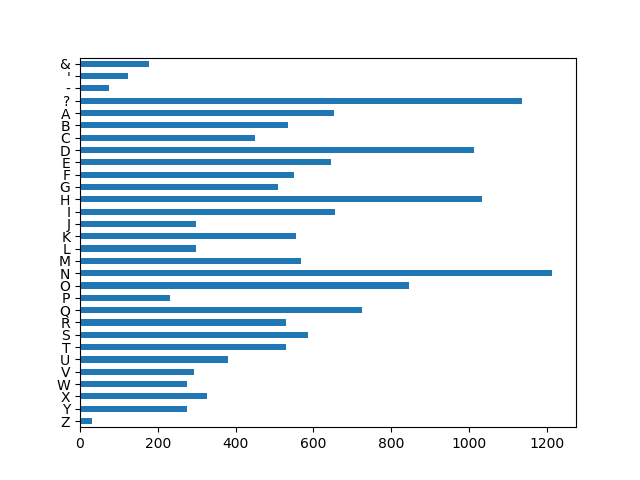
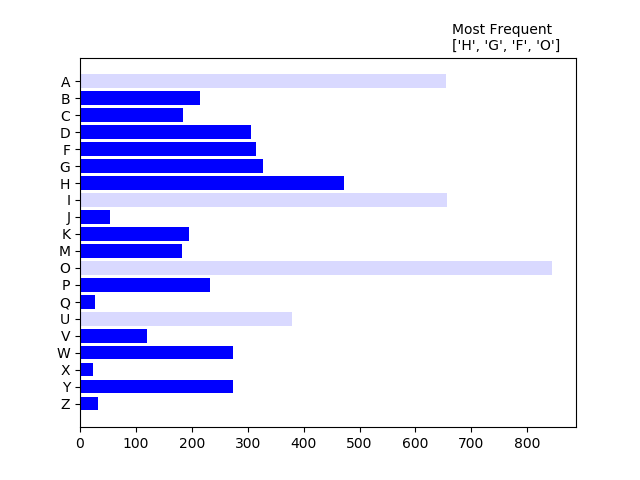
highlighted vowels and added text showing most frequently occuring letters on each graph

diff --git a/analysis.py b/analysis.py
@@ -1,10 +1,10 @@
-# TODO fade or eliminate given letters (RSTLNE) in graphs
-# TODO highlight most likely letters in graphs
-# TODO color vowels differently in graphs
-# TODO analyze best three consonant/one vowel combo to guess
-#   not just most occuring three consonants/one vowel
 # TODO analyze based on category, note weird categories in README
 # TODO compare actual guessed letters with best letters
+# TODO write about best 3 consonants/1 vowel to guess in README
+# TODO make graphs prettier
+# TODO write functions to print categories and letters
+# TODO organize code
+# TODO comment
 
 
 import pandas
@@ -35,23 +35,86 @@ def puzzle_letter_occurence():
   series = pandas.Series(count_list, index=alphabet)
   return series
 
-def print_barh_graph(series,savename="image.png"):
-  series.plot.barh()
+def print_barh_graph(keys,values,savename="image.png",most_frequent_l=[]):
+  plt.clf()
+  light_blue = [0,0,1,0.15]
+  bar_colors = ['blue']*20
+  bar_colors[0] = light_blue
+  bar_colors[7] = light_blue
+  bar_colors[11] = light_blue
+  bar_colors[14] = light_blue
+
+  plt.barh(keys,values,color=bar_colors)
+
+  if len(most_frequent_l)>0: 
+    plt.text(0.75, 1.02, 'Most Frequent\n' + str(most_frequent_l), transform=plt.gca().transAxes)
+
   plt.gca().invert_yaxis()
-  plt.savefig('data/'+savename)
+  plt.savefig('graphs/'+savename)
+  
+def print_overall_letter_occurence():
+  series = puzzle_letter_occurence()
+
+def get_most_frequent_consonants(counter):
+  consonants = ['B','C','D','F','G','H','J','K','L','M','N','P','Q','R','S','T','V','W','X','Y','Z']
+  most_frequent_l = Counter(counter).most_common(10)
+  top_3_consonants = []
+  counter = 0
+  
+  for letter in most_frequent_l:
+    if counter > 2:
+      break
+    if letter[0] in consonants:
+      top_3_consonants.append(letter[0])
+      counter += 1
+
+  return top_3_consonants
+
+def get_most_frequent_vowel(counter):
+  vowels = ['A','E','I','O','U']
+  most_frequent_l = Counter(counter).most_common(10)
+  top_vowel = []
+
+  for letter in most_frequent_l:
+    if letter[0] in vowels:
+      top_vowel.append(letter[0])
+      break
+  
+  return top_vowel
 
 def print_letter_occurence_per_puzzle():
+  def remove_counter_character(char):
+    if char in counter:
+      counter.pop(char)
+
   for category in df['Category'].unique():
-    counter = Counter()
+    counter = Counter(A=0, B=0, C=0, D=0, F=0, G=0, H=0, I=0, J=0, K=0, M=0, O=0, P=0, Q=0, U=0, V=0, W=0, X=0, Y=0, Z=0)
     puzzles = df.loc[df['Category'] == category, 'Puzzle']
     for row in puzzles:
       counter.update(row)
-    count_list = list(counter.items())
-    count_list.sort()
-    if count_list[0][0] == " ":
-      del count_list[0]
-    series = pandas.Series((int(i[1]) for i in count_list), index=(i[0] for i in count_list))
-    series = series.rename(category)
-    print_barh_graph(series,savename=series.name+".png")
 
+    remove_counter_character('?')
+    remove_counter_character('&')
+    remove_counter_character('\'')
+    remove_counter_character('-')
+    remove_counter_character(' ')
+    remove_counter_character('R')
+    remove_counter_character('S')
+    remove_counter_character('T')
+    remove_counter_character('L')
+    remove_counter_character('N')
+    remove_counter_character('E')
+
+    most_frequent_l = []
+    most_frequent_l += get_most_frequent_consonants(counter)
+    most_frequent_l += get_most_frequent_vowel(counter)
+
+    count_list = list(counter.items())
+    count_list = [list(i) for i in count_list]
+    count_list.sort()
+    keys = [i[0] for i in count_list]
+    values = [i[1] for i in count_list]
+    print_barh_graph(keys,values,savename=category+".png",most_frequent_l=most_frequent_l)
+
+#print_overall_letter_occurence()
 print_letter_occurence_per_puzzle()
